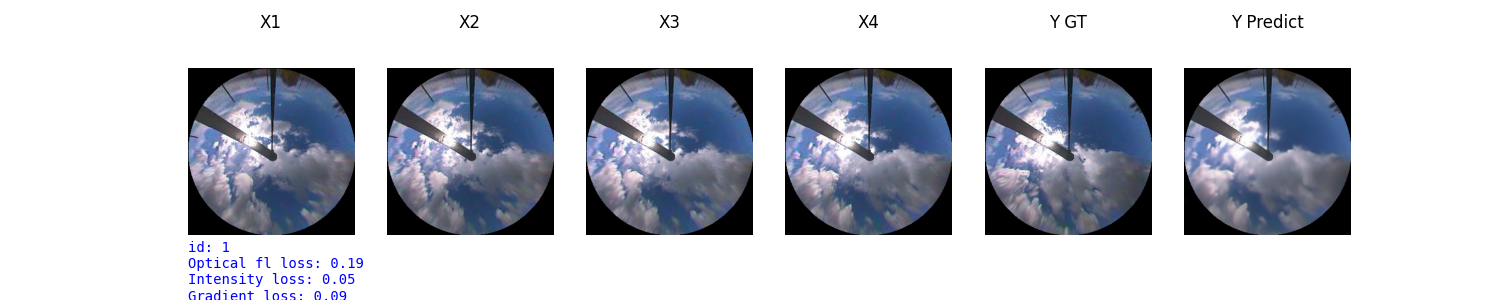
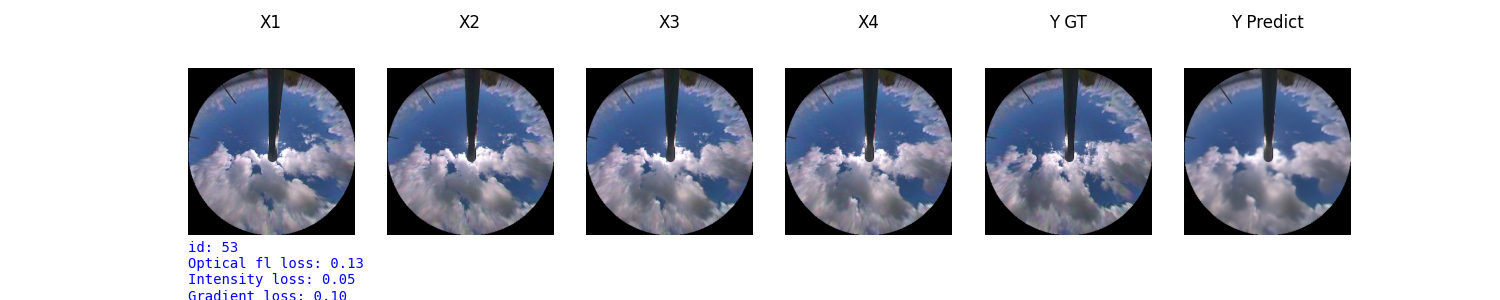
adding test files for cuee data

Changed region(s): [[0.1227, 0.24, 0.92, 0.78], [0.2147, 0.96, 0.2453, 1.0], [0.1227, 0.81, 0.1533, 0.84]]

diff --git a/dataloader_CUEE.py b/dataloader_CUEE.py
@@ -6,48 +6,55 @@ import numpy as np
 import torch
 from warp import *
 import pdb
-
+import glob
+from math import log10, sqrt 
 import matplotlib.pyplot as plt
 ## Hyperparameter
 WarpUpSampFactor = 0.707
-#############
+
+def PSNR(original, compressed): 
+    mse = np.mean((original - compressed) ** 2) 
+    if(mse == 0):  # MSE is zero means no noise is present in the signal . 
+                  # Therefore PSNR have no importance. 
+        return 100
+    max_pixel = 255
+    psnr = 20 * log10(max_pixel / sqrt(mse)) 
+    return psnr 
+
 
 class DatasetFromFolder(data.Dataset):
-    def __init__(self, input_files, target_files):
+    def __init__(self, input_folder):
         super(DatasetFromFolder, self).__init__()
 
-        self.inputFile  = h5py.File(input_files, 'r')
-        self.targetFile = h5py.File(target_files, 'r') 
+        self.input_files = glob.glob(input_folder)
+ 
         
-        self.n_images = len(self.inputFile)
+        self.n_images = len(self.input_files)
 
     def __getitem__(self, index):
-        XfileName = 'X' + str(index)
-        YfileName = 'y' + str(index)
-        
-        inputs = self.inputFile[XfileName]  
-        inputs = inputs[:]
-        inputs = np.float32(inputs)
-        inputs = inputs/255
-        #Warp Here
-        inputs = warp(inputs, WarpUpSampFactor)
-        inputs = np.moveaxis(inputs, 2, 0)
+
+        h5file = h5py.File(self.input_files[index], 'r') 
+  
+        inputs = h5file["X"] 
+        target = h5file["Y"]  
+
+        inputs  = np.array(inputs)
+        target  = np.array(target)
+ 
+        inputs = inputs.astype('float')/256  
+        #Warp Hereinput_folder
+        #inputs = warp(inputs, WarpUpSampFactor)
+        #inputs = np.moveaxis(inputs, 2, 0)
         inputs = torch.from_numpy(inputs)
         
-        
-        target = self.targetFile[YfileName]
-        target = target[:]
-        target = np.float32(target)
-        target = target/255
+         
+        target = target.astype('float')/256   
         #Warp Here
-        target = warp(target, WarpUpSampFactor)
+        #target = warp(target, WarpUpSampFactor)
         
-        target = np.moveaxis(target, 2, 0)
+        #target = np.moveaxis(target, 2, 0)
         target = torch.from_numpy(target)
-        
-        
-        inputs = np.float32(inputs)
-        target = np.float32(target)
+         
 
         # pdb.set_trace() << Comment อันนี้ ออกด้วยนะคะ 
         return inputs, target
@@ -59,7 +66,7 @@ class DatasetFromFolder(data.Dataset):
 def plot_patch(ax, X, text): 
     ax.imshow(X)
     ax.set_title(text)
-    ax.axis('equal')
+    ax.axis('equal') 
     ax.axis('off')
 
 
@@ -125,49 +132,48 @@ def plotXY(input_X,input_Y, Y_predict=None, savepath=None, text_description=None
         textstr_sampled = '\n'.join(txt_list)   
 
     if Y_predict is None:
-        fig, axs = plt.subplots(1,5,figsize=(15, 3))  
+        fig, axs = plt.subplots(1,6,figsize=(15, 3))  
 
-        plot_patch(axs[0], X1, "X1")  
-        if text_description is not None:
-            axs[0].text(-0, 1.5,   textstr_sampled,   horizontalalignment='left',    verticalalignment='top',  family='monospace', color="blue") 
+        plot_patch(axs[0], X1, "X1")   
         plot_patch(axs[1], X2, "X2")
         plot_patch(axs[2], X3, "X3")
         plot_patch(axs[3], X4, "X4")
         plot_patch(axs[4], Y, "Y")   
-    else: 
-        fig, axs = plt.subplots(1,6,figsize=(15, 3))  
-        plot_patch(axs[0], X1, "X1")  
+        axs[5].axis('off')
         if text_description is not None:
-            axs[0].text(-0, 280,   textstr_sampled,  horizontalalignment='left',    verticalalignment='top',  family='monospace', color="blue") 
+            axs[5].text(1400, 0,    textstr_sampled,   horizontalalignment='left',    verticalalignment='top',  family='monospace', color="blue") 
+    else: 
+        fig, axs = plt.subplots(1,7,figsize=(12, 2.75))  
+        plot_patch(axs[0], X1, "X1")   
         plot_patch(axs[1], X2, "X2")
         plot_patch(axs[2], X3, "X3")
         plot_patch(axs[3], X4, "X4")
         plot_patch(axs[4], Y,  "Y GT")    
-        plot_patch(axs[5], Y_predict, "Y Predict")             
+        plot_patch(axs[5], Y_predict, "Y Predict")   
+        if text_description is not None:
+            axs[6].text(0,  1.0,   textstr_sampled,  horizontalalignment='left',    verticalalignment='top',  family='monospace', color="blue")           
+            axs[6].axis('off')
 
+        fig.tight_layout()
     if savepath is None:
         plt.show()
     else:
-        plt.savefig(savepath)    
+        plt.savefig(savepath) 
+
+    plt.close("all")   
 
 
 if __name__ == "__main__":
 
-    INPUTS_PATH = "./SkyNet_Data/xTest_skip_pred5.h5"
-    TARGET_PATH = "./SkyNet_Data/yTest_skip_pred5.h5"
-    dataset = DatasetFromFolder(INPUTS_PATH, TARGET_PATH)
+    INPUTS_PATH = "./CUEE_preprocessing/h5files_Frame-4-Mins/*.h5" 
+    dataset = DatasetFromFolder(INPUTS_PATH)
     dataloader = DataLoader(dataset)
     for data_ in dataloader:
-        inputs, target = data_  
+        inputs, target = data_   
         long_inputs = torch.cat([inputs,target],dim=1)
 
-        for i in range(5): 
-            x = long_inputs[:,3*i:(3*i+12),:,:] 
-            y = target[:,3*i:(3*i+3),:,:]   
-            plotXY(x.permute(2,3,1,0).squeeze(-1), y.permute(2,3,1,0).squeeze(-1))  
-            
+        x = inputs
+        y = target  
+        plotXY(x.permute(2,3,1,0).squeeze(-1), y.permute(2,3,1,0).squeeze(-1))  
 
 
-
-
-  

diff --git a/test_cuee.py b/test_cuee.py
@@ -7,7 +7,7 @@ from torch.autograd import Variable
 from LiteFlowNet import Network, batch_estimate
 from losses import Gradient_Loss, Flow_Loss, Intensity_Loss
 from skynet_Unet_model import SkyNet_UNet
-from dataLoader import DatasetFromFolder, plotXY
+from dataloader_CUEE import DatasetFromFolder, plotXY, PSNR
 from torch.utils.data import DataLoader
 import argparse
 import numpy as np
@@ -47,10 +47,9 @@ args = parser.parse_args()
 #Model Paths
 lite_flow_model_path='./network-sintel.pytorch'
 
-INPUTS_PATH = "./SkyNet_Data/xTest_skip_pred5.h5"
-TARGET_PATH = "./SkyNet_Data/yTest_skip_pred5.h5"
+INPUTS_PATH = "./CUEE_preprocessing/h5files_Frame-4-Mins/*.h5" 
 
-image_path = "./saveplots/prediction_%d.png"
+
 
 # Models
 devCount = torch.cuda.device_count()
@@ -79,7 +78,7 @@ flow_network.cuda().eval()
 
  
 
-testLoader = DataLoader(DatasetFromFolder(INPUTS_PATH, TARGET_PATH), args.BATCH_SIZE, shuffle=False)
+testLoader = DataLoader(DatasetFromFolder(INPUTS_PATH), args.BATCH_SIZE, shuffle=False)
  
 
 # Training Loss
@@ -98,55 +97,35 @@ trainLossCount = 0
 num_images = 0
 pbar = tqdm(testLoader)
 
-savepath = "results/infer_%s"  % (os.path.basename(model_name).split('.pt')[0])
-
+os.makedirs("results_cuee",exist_ok=True) 
+image_path = "results_cuee/prediction_%d.png"
   
 for input_index, (inputs, target) in enumerate(pbar):
 
 
     # Training
     inputs = inputs.float().to(device) # The input data
-    target = target.float().to(device) 
+    target = target.float().to(device)  
+         
+    x = inputs
+    y = target 
+
+    with torch.no_grad(): 
+        G_output = model(x)
+    
  
-    
-    num_images += inputs.size(0) 
-    long_inputs = torch.cat([inputs, target],dim=1)
-    
  
-    for i in range(5):
+    x = x.permute(2,3,1,0).squeeze(-1).detach().cpu().numpy()
+    y = y.permute(2,3,1,0).squeeze(-1).detach().cpu().numpy()
+    G_output = G_output.permute(2,3,1,0).squeeze(-1).detach().cpu().numpy()
+     
+    psnr = PSNR(G_output*255,y*255)
+    description = {'id': input_index, "psnr":psnr}
+    savepath = image_path % input_index
         
-        
-        x = long_inputs[:,3*i:(3*i+12),:,:] 
-        y = target[:,3*i:(3*i+3),:,:]  
-        # Trains model 
-
-        with torch.no_grad(): 
-            G_output = model(x)
-    
-        # For Optical Flow 
-        input_last = x[:, 9:,:,:].clone().cuda() #I_t
-
-        pred_flow_esti_tensor = torch.cat([input_last, G_output],1) #(Predicted)
-        gt_flow_esti_tensor = torch.cat([input_last, y],1) #(Ground Truth)
-        
-        flow_gt    = batch_estimate(gt_flow_esti_tensor, flow_network)
-        flow_pred  = batch_estimate(pred_flow_esti_tensor, flow_network)
-
-
-        g_op_loss  = op_loss(flow_pred, flow_gt)  
-        g_int_loss = int_loss(G_output, y) 
-        g_gd_loss  = gd_loss(G_output, y)
-
-        x = x.permute(2,3,1,0).squeeze(-1).detach().cpu().numpy()
-        y = y.permute(2,3,1,0).squeeze(-1).detach().cpu().numpy()
-        G_output = G_output.permute(2,3,1,0).squeeze(-1).detach().cpu().numpy()
-
-        filepath = os.path.join(savepath, "sample_%d.png" % input_index)
-        description = {'id': input_index, 'Optical fl loss': g_op_loss.item(), 'Intensity loss': g_int_loss.item(), 'Gradient loss': g_gd_loss.item()}
-        savepath = image_path % i 
-        
-        plotXY(x, y, G_output, savepath=savepath, text_description=description)   
-        pbar.set_postfix(description)
+    plotXY(x, y, G_output, savepath=savepath, text_description=description)   
+ 
+    pbar.set_postfix(description)
 
  
  

diff --git a/train.py b/train.py
@@ -35,7 +35,7 @@ parser.add_argument('--EPOCHS',
                     default=40, 
                     help='(default value: %(default)s) Number of epochs o train model for.')
 parser.add_argument('--BATCH_SIZE',
-                    default=8, 
+                    default=1, 
                     help='(default value: %(default)s) Training batch size.')
 parser.add_argument('--LR',
                     default=0.0002, 
